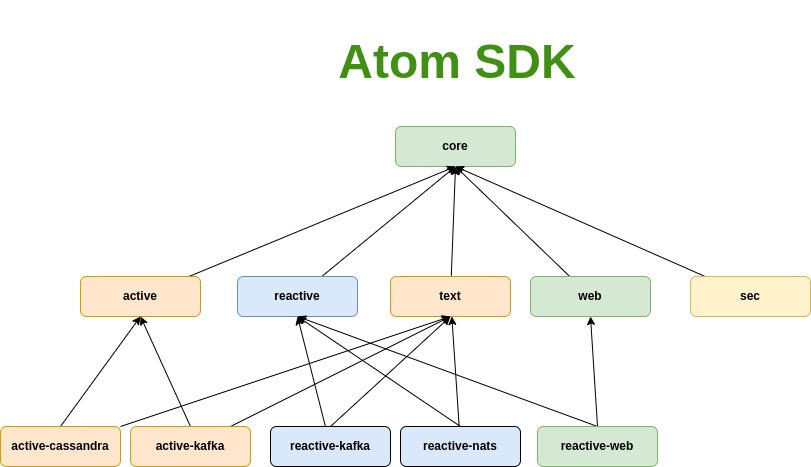
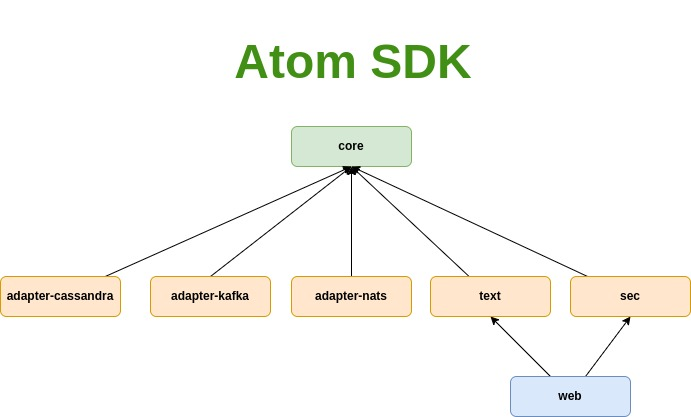
update docs

diff --git a/README.md b/README.md
@@ -12,7 +12,11 @@
 ## Introduction
 
 * Atom is a collection of utilities for web, and event based applications.
-* Current JDK used is `Java 19`.
+* Current JDK used is `Java 20`.
+* Atom relies heavily
+  on [Reactive Streams](https://www.reactive-streams.org/) and uses [Project-Reactor](https://projectreactor.io/),
+  [Reactor Netty](https://github.com/reactor/reactor-netty), it also uses functional paradigms and collections
+  from [Vavr](https://www.vavr.io/).
 
 **Disclaimer:**
 > `atom` is on edge, it's a work in progress and a pragmatic learning effort, so feel free to create issues or PRs.
@@ -27,20 +31,12 @@ Core module has basic set of utilities:
 * Basic Eventsourcing functional interfaces
 * ConfigFileOps, and ResourceFileOps (similar to Typesafe HOCOON library)
 * TextTransformer base interfaces
-* other
 
-## Active module
+## Adapter-* modules
 
-Active module and submodules use the blocking virtual threading available starting jdk 19 preview.
+Adapter initially were built to implement eventsourcing infra ports, but might later have more
 
-## Reactive module
-
-`reactive` relies heavily
-on [Reactive Streams](https://www.reactive-streams.org/) and uses [Project-Reactor](https://projectreactor.io/),
-[Reactor Netty](https://github.com/reactor/reactor-netty), it also uses functional paradigms and collections
-from [Vavr](https://www.vavr.io/).
-
-## Features
+## Atom Features
 
 * Eventsourcing sdk in two flavours active, and reactive
 * Kafka, Nats, Cassandra adapters
